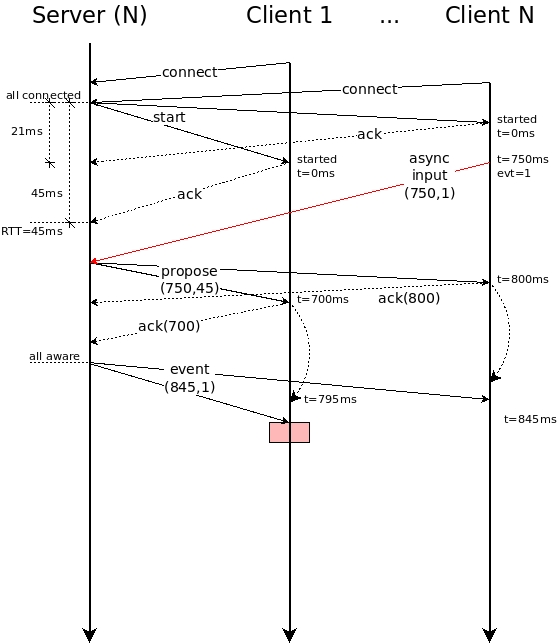
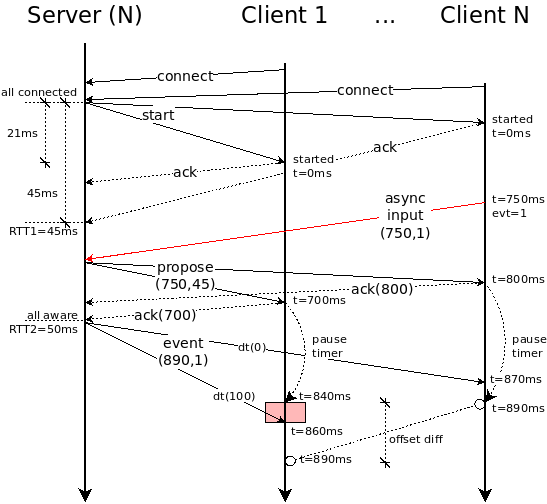
...

diff --git a/paper/rebls-21.tex b/paper/rebls-21.tex
@@ -238,7 +238,7 @@ Tick    Event    Async
     \label{fig.timeline}
     Example of a synchronized timeline of inputs shared by all instances of the
     \dapp.
-    Ticks are \emph{25ms} apart (40 FPS).
+    Ticks are \emph{25ms} apart (\emph{40 FPS}).
     Asynchronous events are synchronized with a delay.
     Note that delay is unpredictable but event order within each source
     instance is preserved.
@@ -577,7 +577,8 @@ to ensure time precision.
 
 Figure~\ref{fig.protocol} describes the synchronization protocol performed by
 the middleware.
-%
+The next paragraphs explains the protocol in detail.
+
 The server starts first and needs to know in advance how many instances will
 participate in the \dapp (\emph{Server (N)}).
 Each instance connects through its client (\emph{Client 1 ... Client N}) with
@@ -587,10 +588,10 @@ receipt, starts to send ticks to their instances (\emph{started}).
 Note that clients will inevitably start at different global times due to
 network latency.
 The clients also send back an \emph{ack} so that the server can calculate the
-maximum network RTT (\emph{45ms}), which is used next.
+maximum network RTT1 (\emph{45ms}), which is used next.
 %
 After the startup process, each \dapp instance executes at the same pace
-(except for drifts) with similar offset differences (under maximum RTT).
+(except for drifts) with similar offset differences (under maximum RTT1).
 We consider that, at this point, the instances are indistinguishable from each
 other.
 
@@ -629,80 +630,75 @@ for all clients, and to ensure that instances do not miss the deadline even if
 everything goes wrong.
 %
 First, the server broadcasts the intention to emit an event, passing the source
-instance offset time and current network maximum RTT (\emph{propose(750,45)}).
-Then, each client calculates its own deadline as follows:
+instance offset time and current network maximum RTT1 (\emph{propose(750,45)}).
+The final confirmation of the event is yet to come after all clients
+acknowledge the server (\emph{event(890,1)}).
+Before that, each client calculates its own deadline as follows:
     (i) take the maximum time between the source and local offset,
-    (ii) add the RTT to this maximum, and
+    (ii) add twice the received RTT to this maximum, and
     (iii) set this sum as the local event deadline.
 As examples, the sum for
-    \emph{Client 1} is $max(750,700)+45=795$, and for
-    \emph{Client N} is $max(750,800)+45=845$.
+    \emph{Client 1} is $max(750,700)+2x45=840$, and for
+    \emph{Client N} is $max(750,800)+2x45=890$.
 %
-Taking the maximum local time and adding the RTT is a reasonable value, because
-it is a bit over the expected confirmation for the instance most ahead in time.
-
-
-
-, which is the most likely
-to miss the deadline.
+This sum is reasonable because it considers
+    the instance most ahead in time, and also
+    the worst RTT with an extra margin.
+For instance, \emph{Client N} with the worst RTT (\emph{45ms}) is also ahead of
+time \emph{800ms} and the final confirmation will arrive after another round
+trip to the server (\emph{event(890,1)}), making \emph{890ms} a reasonable
+deadline.
 %
+During this process, the server recalculates the RTT to use in the next event
+emission (\emph{RTT2=50ms}).
+
 Each client also starts a timer to pause the instance if the confirmation of
 the event is not received until the deadline.
+In this case, the client pauses the instance by repeating the same tick over
+and over until it receives the now expected event.
 This at least ensures identical timelines in all instances of the \dapp.
-The client pauses the instance by repeating the same tick over and over.
+%
+The server then wait for all client acknowledgments carrying their local
+offsets (\emph{ack(800)} and \emph{ack(700)}), recalculate each deadline (in
+the same way each client did), and takes the largest as the final event
+timestamp to broadcast to all clients (\emph{event(890,1)}).
+The server also sends a drift compensation (\emph{dt(0)} and \emph{dt(100)})
+based on offset differences, which is discussed further.
+At this point, all clients are expecting a timestamp that is greater than or
+equal to their own timer deadlines.
+Therefore, even if the network deteriorates, no instances can miss the
+synchronized event.
 
+Finally, the final confirmation is received by the clients.
+\emph{Client N} receives it before the deadline, at local time \emph{870ms},
+which requires to postpone local emission for \emph{20ms}.
+However, \emph{Client 1} expires its timer before receipt and needs to pause
+the \dapp for a while (red area).
+Then, the event confirmation is received at local time \emph{860ms}, but which
+still requires to postpone local emission for another \emph{30ms}.
+In the end, both clients emit the event exactly at local time \emph{890ms} as
+expected (white circle in the Figure).
 
-
-In the example, the sever knows that 
-
-
-
-queue in the server
-
-
-
-
-
-
-inindistinguishable from 
-
-
-
-- PHASE 1: connection
-    - server waits N connections
-        - may sit idle for long time
-    - all connected
-    - calculate first RTT
-
-each machine has a local time
-
-Figure~\ref{}
-
-- freeze may increase offset diff
-
-
-\begin{comment}
-
-Environment replicated in the clients
-
-In synchronous systems, communication is instantaneous.
-The zero-delay property of the synchronous hypothesis guarantees that no time
-elapses between event announcement and receiving.
-Also, as communication is via broadcast, all systems parts share the same
-information all the time. These two
-characteristics make global data consensus another property of synchronous
-systems.
-\end{comment}
+Note that \emph{Client 1} was harmed in the process mainly because the maximum
+time it used (\emph{750ms}) was much smaller than \emph{Client N} did
+(\emph{800ms}).
+This is because the local clocks were too distant from each other, breaking our
+\emph{goal 1}.
+As an additional remark, note that pausing \emph{Client 1}, increased the
+offset difference even further (\emph{offset diff} in the Figure).
+%
+The middleware also implements an algorithm to compensate clock drifts as
+follows:
+Once the server receives all acknowledges carrying local offsets
+(\emph{ack(800)} and \emph{ack(700)}), the server sends back how much each
+client is delayed it in comparison to the maximum value (\emph{0} and
+\emph{100}).
+If the number is greater than zero, the client speeds up each instance tick in
+\emph{20\%} until the time drift is compensated.
+For instance, if the client generates new ticks every \emph{25ms}, it will
+instead generate a new \emph{25ms} tick every \emph{20ms}.
 
 \begin{comment}
-- freezes make clients to fall behind in time
-- testar isso com um cliente lazy
-
-- fazer ajuste de tempo dinamico
-- qvento de sync a cada segundo? (ou multiplo do RTT)
-
-
-  shows that ... but local
 With distribution, communication timing is asynchronous because communication
 latency takes a non-negligible time and breaks the synchronous hypothesis.
 
